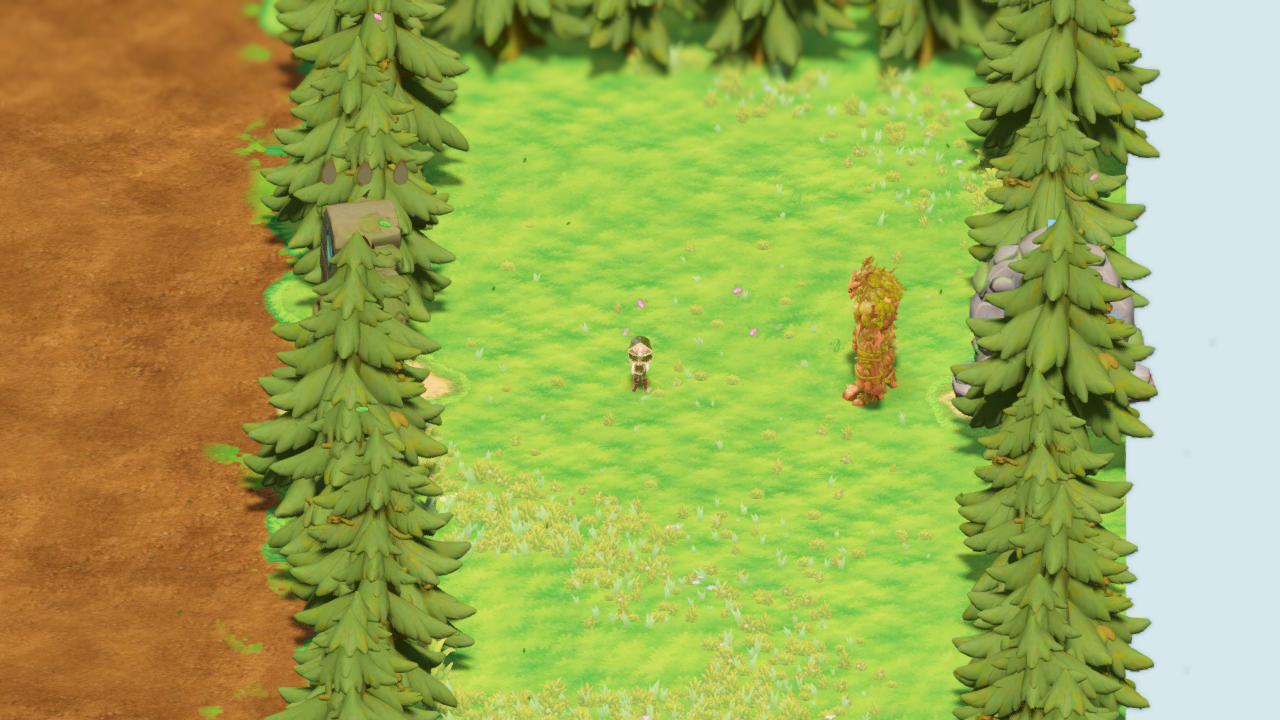
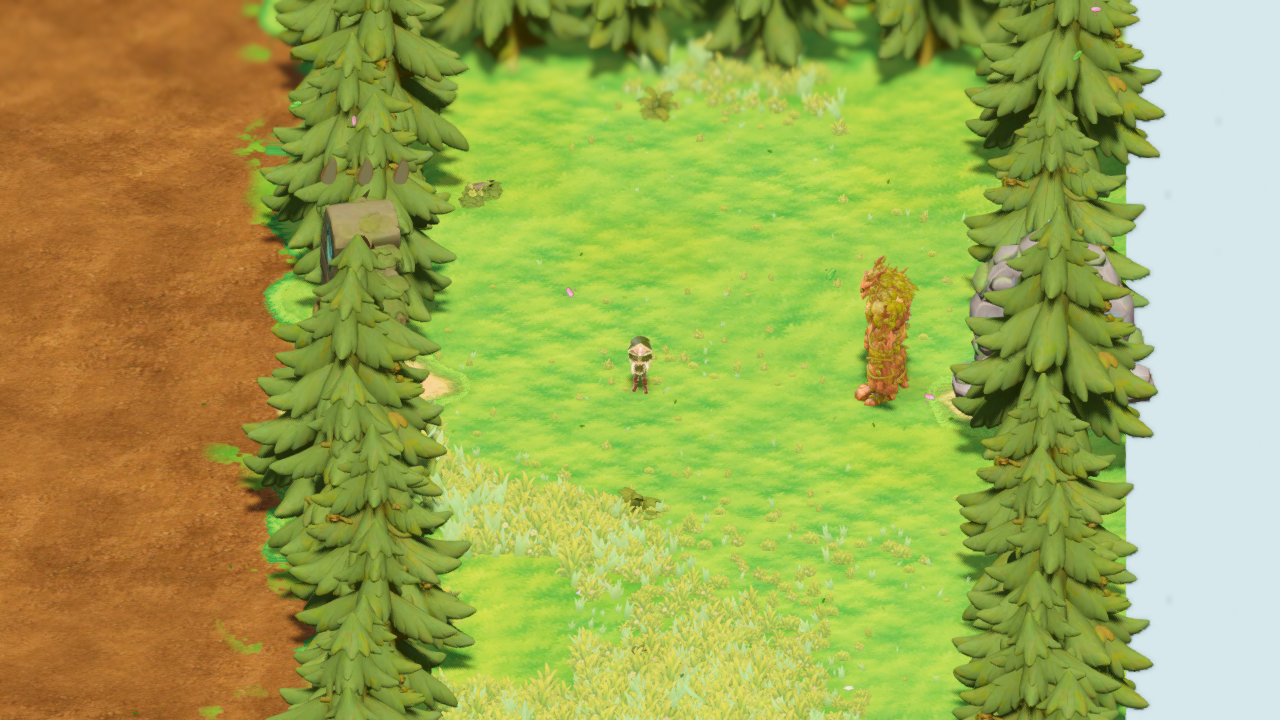
Hierba en bloques, 2a pasada (mas contraste): corros altos y tupidos, calvas con forma y tinte del suelo, pedruscos en grupos marcados, flores en los bordes (DIARIO 418)

diff --git a/docs/DIARIO.md b/docs/DIARIO.md
@@ -4765,9 +4765,11 @@ Con una página de fuego, hielo o agua seleccionada, rodar deja en la casilla de
 ## 415 — Juego (6/11): **Arte del entorno enganchado: escombro con grava y piedras, vapor de hoja, brote de naturaleza y hierba germinada que se ve** (`docs/REACCIONES_ENTORNO_2026-11-06.md` §2 «bis»)
 
 Pablo entregó el arte (escombro_arriba.png, escombro_terreno.glb, vapor.png, naturaleza.png) y se engancha por los caminos que R1-R3 ya tenían. **Escombro:** el RGBA de `EstadosSuelo3D.textura()` estaba lleno, así que nace una segunda imagen (`textura_extra`: R escombro, G costra) que lee el shader del suelo y pinta la grava con contorno por ruido. Encima, `ArteEntorno3D` (nuevo, sin class_name) pone 2-3 trozos de `escombro_terreno.glb` por casilla (lado 0,25-0,35, sitio y giro con semilla por casilla), con pool y tope `MAX_ROCAS_ESCOMBRO` 40; se retiran al caducar. La **costra** del magma es el mismo estado: `es_costra` (fila «costra») cambia las rocas a `piedra_est_magma_*` y oscurece el suelo. **Vapor:** un emisor por casilla, que muere al caducar; `Vfx3D.vapor` y `VfxPuzle3D.vapor` usan la hoja `vapor.png` (6x4, bucle, tinte blanco-azulado), así que impactos, hielo que caduca, magma×agua y apagado la usan. **Naturaleza:** `naturaleza_rune.tres` usa `naturaleza.png` (18 fotogramas); el brote (sin bucle) sale en la casilla germinada y como adorno del enraizado. **Hierba germinada:** `EstadosSuelo3D.material_cambiado` avisa a la maqueta, que repinta el mapa de tipos, rehace el bloque de hierba y mete la casilla en `_es_hierba`, así arde (`prever_hierba` = «prende»). Pruebas: `prueba_arte_entorno` 0 (54); suelo, vfx, errores_consola, bloque_b, libro_avanzado, enemigo y bosque_01 a 0; catalogo 2 y playtest_eow 5 conocidos. Capturas en `docs/capturas/arte_entorno/`. Pendiente: decimar el GLB (14,8k triángulos por trozo) y revisar escala del relieve; concepto de magma de Pablo (vídeo) anotado en el doc de reacciones.
-## 416 — Juego (6/11): **Hierba procedural y detalle en bloques: matojos distintos, siembra por casilla en corros con calvas, pedruscos en corros, hierba rala en el suelo llano** (encargo de Pablo: «una hierba más procedural… en vez de esparcir, pequeños bloques; lo mismo con pedruscos; quitar la planicie»)
+## 418 — Juego (6/11): **Hierba procedural y detalle en bloques: matojos distintos, siembra por casilla en corros con calvas, pedruscos en corros, hierba rala en el suelo llano** (encargo de Pablo: «una hierba más procedural… en vez de esparcir, pequeños bloques; lo mismo con pedruscos; quitar la planicie»)
 **Cómo estaba:** `Hierba3D` copiaba UNA malla de matojo (5 briznas, forma fija) con escala uniforme, giro y tinte, semilla por bloque; desde el 5/11 había matas con claros (`_mata_hierba`) pero dentro de una mata todo era igual; los adornos (setas y `piedra_est_*`) salían de una lotería pareja al 22 % por casilla en todo el mapa; y el suelo `.` de la llanura del Bosque no llevaba hierba 3D (solo `v` y `,`), de ahí la planicie.
 **Hierba3D (`presentacion/hierba_3d.gd`).** `procedural` (true): 3 mallas de matojo (4, 5 y 6 briznas, `TOPES.variantes`), un MultiMesh por variante (`briznas`, `briznas_1`, `briznas_2`); por matojo alto, ancho (escala XZ aparte), inclinación (hasta 0,38 rad), tono dentro de la paleta y FASE propia del balanceo (`INSTANCE_CUSTOM.a`, nuevo en el shader). La siembra va CASILLA a casilla con semilla `hash(semilla, cx, cz)` (`casilla` = 2,3): una casilla sale igual en cualquier bloque, siembra u horneado, y `rehacer_bloque_en` deja las matas vecinas donde estaban. Tabla `AGRUPADO`: calvas por casilla (14 %, nunca en el corazón de una mata ≥ 0,98), ruido de densidad (`HorneadorNivel._vruido`, tam 3,1 u, mínimo 0,45) y `rejilla_x` 1,3 para que el presupuesto de copias quede como antes pero en corros. Tabla `TOPES` por bloque: 220 matojos, 220 tarjetas, 40 flores, 5000 triángulos (se ralea a partes iguales con `_ralear`, nunca se corta por un lado). `estadisticas_bloque`, `matojos_en_casilla`, `estadisticas` y la `huella` por bloque se miden en headless (el MultiMesh no guarda copias sin render). `procedural = false` = la hierba de antes (una malla, escala uniforme).
 **Maqueta (`presentacion/prueba_test2.gd`).** `detalle_en_bloques` (true). Adornos en CORROS: tabla `ADORNOS` (tam_corro 4,5 casillas, umbral 0,5, prob_max 0,6, tope 160) y `_prob_adorno(c)` (0 en el 48 % del Bosque, ≥ 0,9·max en el 32 %); con el interruptor apagado, el 0,22 parejo de antes. `HIERBA_RALA`: en el suelo `.` de los niveles de zonas, matojos ralos (peso 0,12) y bajos (×0,45) en el corazón de los corros (`_mata_hierba` ≥ 0,6); solo aspecto, `_es_hierba` no los cuenta (no arden). `_mata_hierba` devuelve 1 en la casilla germinada (si caía en un claro no brotaba nada visible). Bosque entero: 7511 → 6393 copias, 61 k → 49 k triángulos; alrededor del jugador 72 bloques, 1134 → 1093 matojos, 19,6 k → 18,9 k triángulos; casillas de hierba vacías 10 → 44 de 228; CV de matojos por casilla 1,09 → 1,28.
 **Pruebas:** nueva `herramientas/prueba_hierba_bloques.gd` (28 OK: determinismo por semilla y por casilla, rehacer, topes con densidad ×6, huecos, variantes, corros de adornos, germinar por bloque); a 0: prueba_hierba_matas, prueba_arte_entorno, prueba_reacciones_entorno_suelo, prueba_bloque_b_suelo, escenario_bosque_01_v01, prueba_errores_consola. Capturas antes/después (4 zonas del Bosque, cámara del juego a 12 u) en `docs/capturas/hierba_bloques/` con `herramientas/captura_hierba_bloques.gd`.
 **Para Pablo:** los números de `AGRUPADO`, `TOPES`, `ADORNOS` y `HIERBA_RALA` son los primeros; se ajustan jugando. La hierba rala de la llanura es discreta a 12 u (matojos bajos): si quieres más presencia, sube `HIERBA_RALA.peso` o `alto`. Pendiente: el Bosque 02 (horneado) usa la misma hierba; no se le hicieron capturas.
+**2.ª pasada (mismo día; Pablo vio las capturas: «Sí, más contraste»).** (1) Corros altos y tupidos: en `Hierba3D.AGRUPADO` `mata_alto_centro` 1,9 / `mata_alto_claro` 0,55 / `mata_densidad_x` 2,2 (antes 1,3 / 0,8 / 1,7, que siguen para `procedural` false); topes por bloque subidos a 300 matojos, 300 tarjetas, 6000 triángulos (≈ 130 k en 25 bloques). En el suelo llano, `HIERBA_RALA` separa CORRO (campo de matas ≥ 0,7: peso 0,85, alto ×0,85, y Hierba3D lo sube ×1,9) de lo RALO (≥ 0,35: peso 0,05, alto ×0,35): escalón ×1,62 frente a ×0,19. (2) Calvas por ruido con forma (`tam_calva` 2 casillas, `umbral_calva` 0,64; `Hierba3D.es_calva`, estática), y el suelo se tiñe bajo los corros (verde oscuro) y en las calvas (tierra clara): textura `corros` RG por casilla (`_textura_corros`) y tabla `SUELO_CORROS` en el shader del suelo (`fuerza_corro` 0 en labs y Test 2). (3) Pedruscos en grupos marcados: `ADORNOS` n_min 3 / n_max 5, 2 grandes (escala 1,15-1,5; más y la chibi atravesaría la piedra, son pisables sin cuerpo) y el resto pequeñas a ≤ 0,75 u, separación 3 casillas entre grupos, prob_max 0,45, tam_corro 5,5; un grupo que no cabe entero (o dos setas) se deshace: ninguna piedra suelta. (4) Flores y matas bajas en el borde de los corros con piezas que ya existen (`flores_amarillas`, `flores_colores`, `helecho_ancho`), banda `borde_mata` 0,12-0,88, tope 60 (24 en el Bosque). Coste alrededor del jugador (72 bloques): 19,7 k → 41 k triángulos; mapa entero 10 677 copias.
+**Umbrales de prueba ajustados (se dice aquí):** `prueba_hierba_bloques` «no cuesta más» pasa a «≤ +35 % de copias y triángulos» y gana 5 OK (escalón en tablas, calvas con forma, textura de corros, ningún adorno suelto, flores de borde); `prueba_hierba_matas` 2 pasa de «no más que sin matas» a «≤ +25 %» (con matas 1186 briznas frente a 1071 sin ellas). Las cinco de referencia siguen a 0. Capturas regeneradas en `docs/capturas/hierba_bloques/`: en `llanura_despues.png` se ven los corros altos, las rocas en grupo y las flores de borde frente a la planicie de `llanura_antes.png`.
